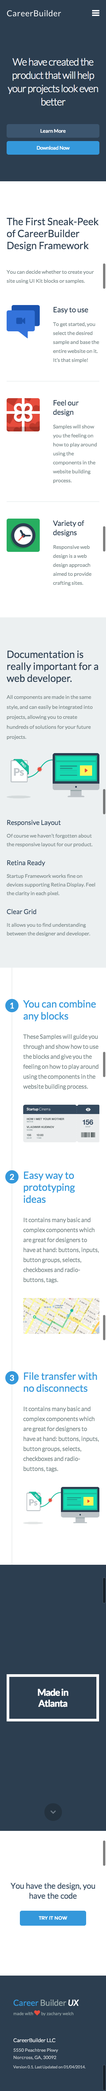
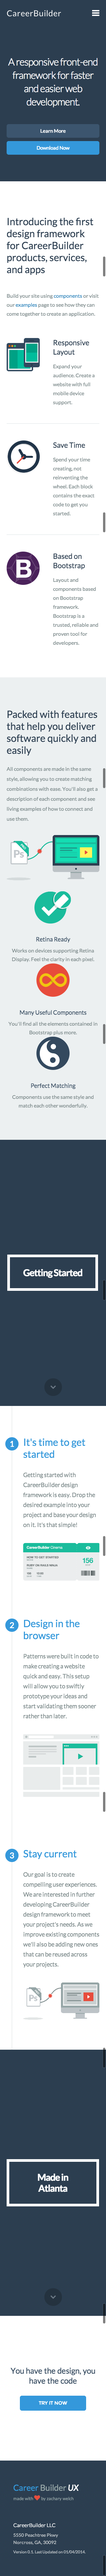
content-3 phone fixes

diff --git a/public/css/style.css b/public/css/style.css
@@ -2578,6 +2578,14 @@ body > section.v-center > div {
   margin-bottom: 10px;
   font-size: 18px;
 }
+@media (max-width: 767px) {
+  .content-3 .features [class*="span"] {
+    margin-top: 50px;
+  }
+  .content-3 .features [class*="span"] h6 {
+    margin-top: 20px;
+  }
+}
 .content-23 {
   background-color: #2c3e50;
   background-position: 50% 50%;

diff --git a/public/less/style.less b/public/less/style.less
@@ -103,6 +103,16 @@ body > section {
     margin-bottom: 10px;
     font-size: 18px;  
   }
+
+  @media (max-width: 767px) {
+    [class*="span"] {
+      margin-top: 50px;
+
+      h6 {
+        margin-top: 20px;
+      }
+    }
+  }
 }
 
 .content-23{
